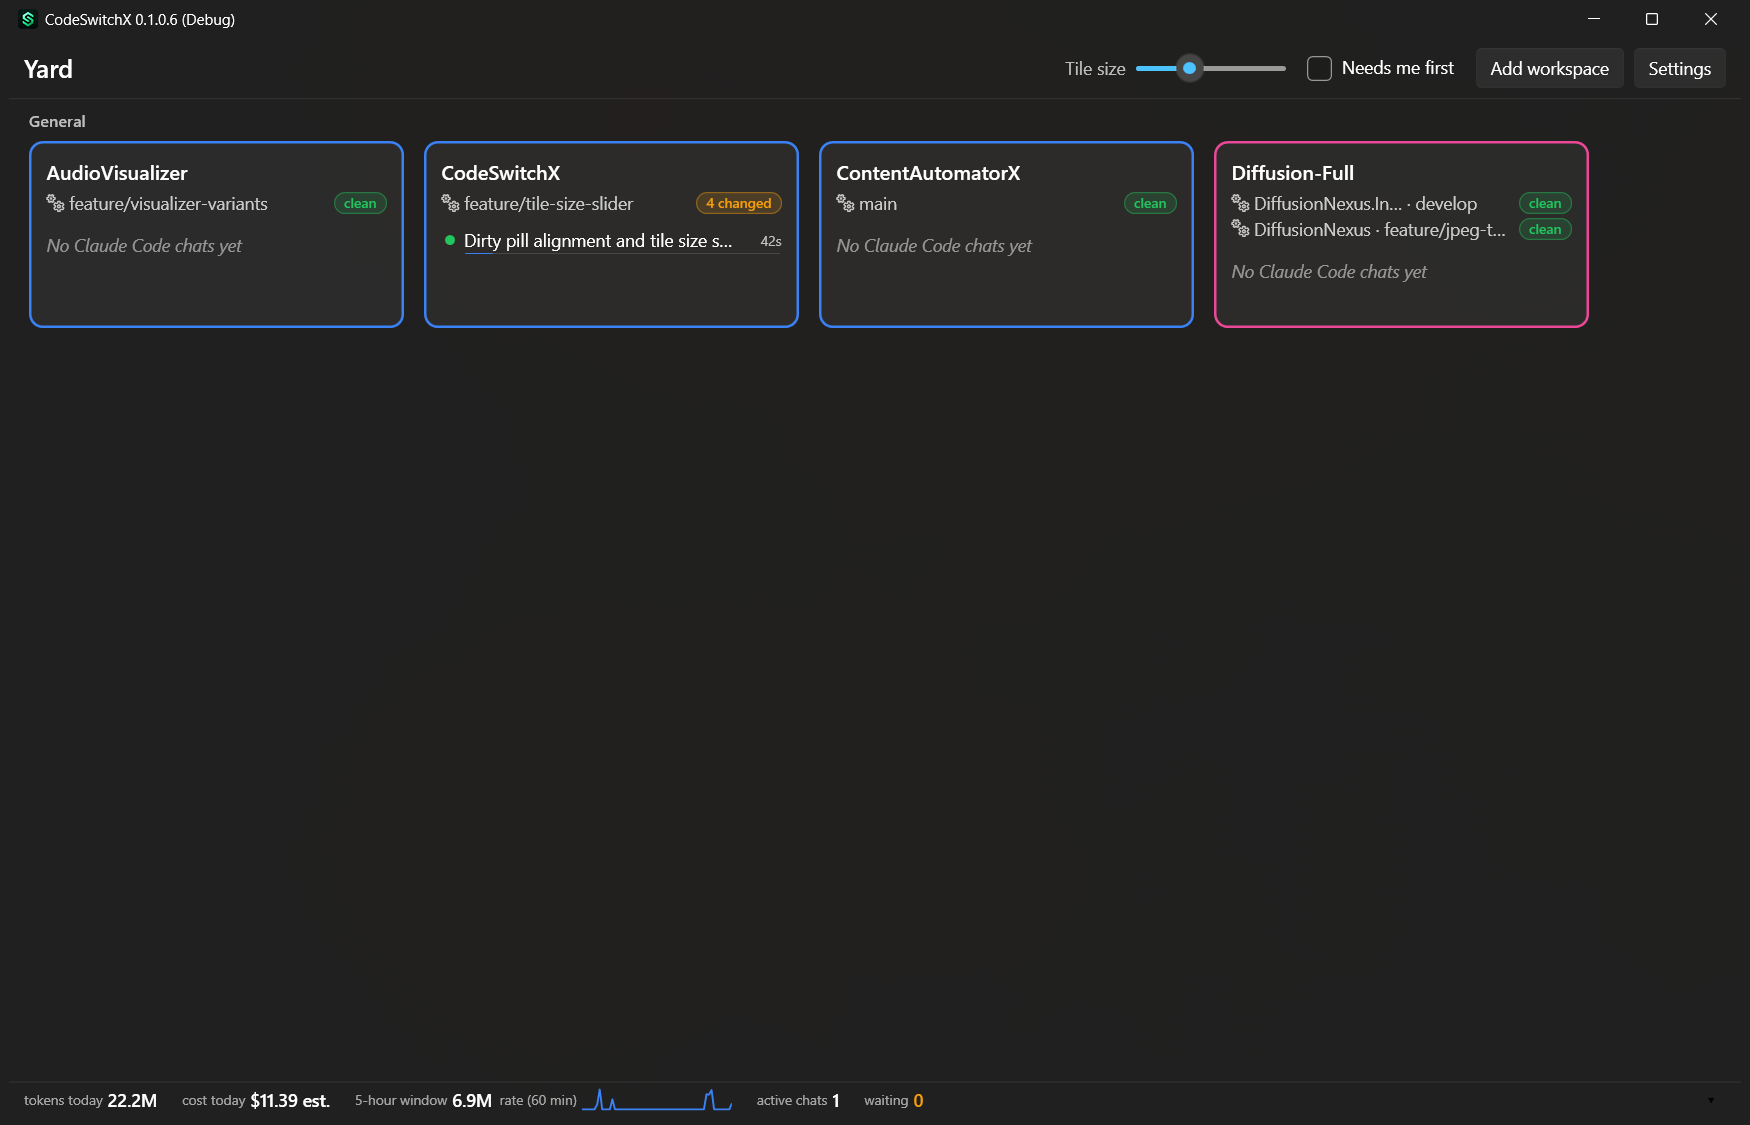
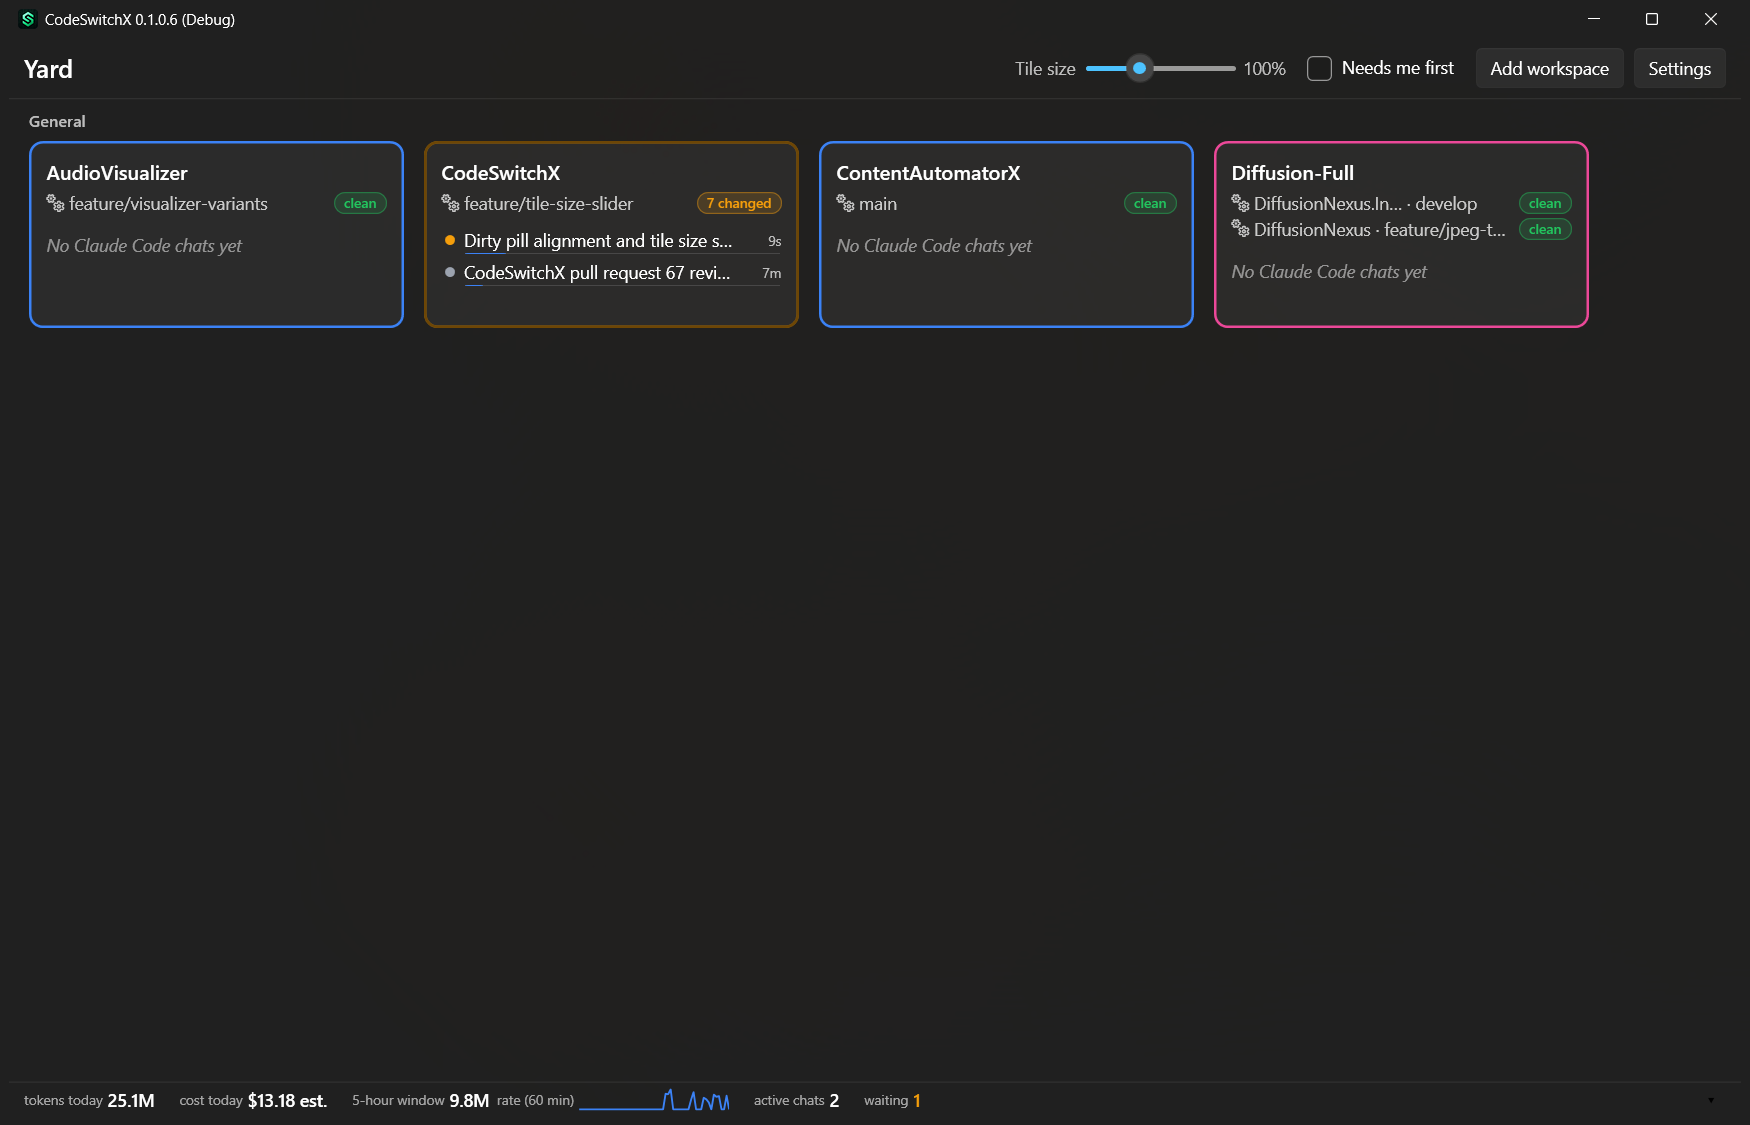
fix: address the review of the tile size slider (#65)
- The Yard owns its tile size (YardViewModel.TileScale); the settings only
  store it and the shell passes it between them, so the view binds to its
  own view model instead of reaching through the window.
- One layout transform per track instead of one per tile.
- The size is kept in the slider's range and to two decimals, so snapping
  noise (0.9000000000000001) is not stored.
- Arrow keys step 5% and a page / track click 25%; the slider has an
  automation name and a percentage readout.
- The stored size loads in a try of its own: a value that is not a number
  falls back to 100% without a message, and a failure reading the other
  settings keeps it.

diff --git a/src/CodeSwitchX.UI/Yard/YardView.xaml b/src/CodeSwitchX.UI/Yard/YardView.xaml
@@ -2,7 +2,6 @@
              xmlns="http://schemas.microsoft.com/winfx/2006/xaml/presentation"
              xmlns:x="http://schemas.microsoft.com/winfx/2006/xaml"
              xmlns:yard="clr-namespace:CodeSwitchX.UI.Yard"
-             xmlns:settings="clr-namespace:CodeSwitchX.UI.Settings"
              AllowDrop="True" Background="Transparent" DragEnter="OnDragOver" DragOver="OnDragOver" DragLeave="OnDragLeave" Drop="OnDrop">
   <UserControl.Resources>
     <DataTemplate x:Key="ChatRowTemplate" DataType="{x:Type yard:ChatRowViewModel}">
@@ -88,11 +87,6 @@
     <DataTemplate x:Key="TileTemplate" DataType="{x:Type yard:WorkspaceTileViewModel}">
       <Border x:Name="TileBorder" Width="300" MinHeight="150" Margin="8" Padding="12" CornerRadius="10" BorderThickness="2"
               Background="{DynamicResource CardBackgroundFillColorDefaultBrush}" Cursor="Hand">
-        <!-- the Tile size slider zooms the whole tile, text and all; a layout transform, so the wrap panel makes room -->
-        <Border.LayoutTransform>
-          <ScaleTransform ScaleX="{Binding DataContext.Settings.TileScale, RelativeSource={RelativeSource AncestorType=Window}}"
-                          ScaleY="{Binding DataContext.Settings.TileScale, RelativeSource={RelativeSource AncestorType=Window}}" />
-        </Border.LayoutTransform>
         <Border.InputBindings>
           <MouseBinding MouseAction="LeftClick" Command="{Binding OpenCommand}" />
         </Border.InputBindings>
@@ -174,9 +168,12 @@
       <DockPanel>
         <StackPanel DockPanel.Dock="Right" Orientation="Horizontal">
           <TextBlock Text="Tile size" VerticalAlignment="Center" Opacity="0.7" Margin="0,0,8,0" />
-          <Slider Width="120" VerticalAlignment="Center" Margin="0,0,16,0" Minimum="{x:Static settings:SettingsViewModel.MinTileScale}"
-                  Maximum="{x:Static settings:SettingsViewModel.MaxTileScale}" TickFrequency="0.05" IsSnapToTickEnabled="True"
-                  Value="{Binding DataContext.Settings.TileScale, RelativeSource={RelativeSource AncestorType=Window}}" />
+          <!-- 5% a tick, an arrow key or a snap; a quarter a page or a click on the track -->
+          <Slider Width="120" VerticalAlignment="Center" Minimum="{x:Static yard:YardViewModel.MinTileScale}" Maximum="{x:Static yard:YardViewModel.MaxTileScale}"
+                  TickFrequency="0.05" SmallChange="0.05" LargeChange="0.25" IsSnapToTickEnabled="True" AutomationProperties.Name="Tile size"
+                  Value="{Binding TileScale}" />
+          <TextBlock Text="{Binding TileScale, StringFormat={}{0:P0}}" VerticalAlignment="Center" MinWidth="40" TextAlignment="Right" Opacity="0.7"
+                     Margin="0,0,16,0" />
           <CheckBox Content="Needs me first" IsChecked="{Binding NeedsMeFirst}" VerticalAlignment="Center" Margin="0,0,16,0" />
           <Button Content="Add workspace" Command="{Binding AddWorkspaceCommand}" Margin="0,0,8,0" />
           <Button Content="Settings" Command="{Binding DataContext.OpenSettingsCommand, RelativeSource={RelativeSource AncestorType=Window}}" />
@@ -193,6 +190,11 @@
             <StackPanel Margin="0,0,0,16">
               <TextBlock Text="{Binding Name}" FontSize="13" FontWeight="SemiBold" Opacity="0.7" Margin="8,0,0,0" />
               <ItemsControl ItemsSource="{Binding Tiles}" ItemTemplate="{StaticResource TileTemplate}">
+                <!-- the Tile size slider zooms the tiles, text and all; a layout transform, so the wrap panel makes room -->
+                <ItemsControl.LayoutTransform>
+                  <ScaleTransform ScaleX="{Binding DataContext.TileScale, RelativeSource={RelativeSource AncestorType=yard:YardView}}"
+                                  ScaleY="{Binding DataContext.TileScale, RelativeSource={RelativeSource AncestorType=yard:YardView}}" />
+                </ItemsControl.LayoutTransform>
                 <ItemsControl.ItemsPanel>
                   <ItemsPanelTemplate>
                     <WrapPanel />

diff --git a/src/CodeSwitchX.UI/Settings/SettingsViewModel.cs b/src/CodeSwitchX.UI/Settings/SettingsViewModel.cs
@@ -30,7 +30,7 @@ public sealed partial class SettingsViewModel : ObservableObject
     [ObservableProperty] private bool _storePayloads;
     [ObservableProperty] private long? _fiveHourBudgetTokens;
 
-    /// <summary>How big the Yard draws its tiles: 1 is their normal size. The slider in the Yard's header sets it.</summary>
+    /// <summary>The Yard's tile size as stored; the Yard owns it (see <see cref="Yard.YardViewModel.TileScale"/>).</summary>
     [ObservableProperty] private double _tileScale = 1;
 
     public SettingsViewModel(ClaudeHookInstaller installer, ISettingsStore settings, PersistenceWriterOptions writerOptions, AppPaths paths, ClaudeCodePaths claude,
@@ -61,10 +61,10 @@ public sealed partial class SettingsViewModel : ObservableObject
         {
             // The startup coordinator read the stored choice into the writer before the first hook event; the view shows
             // the writer's flag rather than reading the row again, which could disagree with what the writer does.
+            TileScale = await LoadTileScaleAsync(ct);
             StorePayloads = _writerOptions.StorePayloads;
             FiveHourBudgetTokens = await _settings.GetAsync<long?>(SettingKeys.FiveHourBudgetTokens, ct);
             RelayExecutable = await _settings.GetAsync<string>(SettingKeys.RelayExecutable, ct) ?? DefaultRelayExecutable;
-            TileScale = ClampTileScale(await _settings.GetAsync<double?>(SettingKeys.TileScale, ct));
         }
         catch (Exception ex)
         {
@@ -150,11 +150,22 @@ public sealed partial class SettingsViewModel : ObservableObject
         BudgetChanged?.Invoke(value);
     }
 
-    public const double MinTileScale = 0.75;
-    public const double MaxTileScale = 1.5;
-
-    /// <summary>A stored value outside the slider's range (edited by hand, or from a build with another range) is pulled into it.</summary>
-    public static double ClampTileScale(double? value) => value is { } v && double.IsFinite(v) ? Math.Clamp(v, MinTileScale, MaxTileScale) : 1;
+    /// <summary>
+    /// In a try of its own: a stored value that is not a number (edited by hand) leaves the tiles at their normal size
+    /// without a message in the Settings view, and a failure reading the other settings does not lose the size.
+    /// </summary>
+    private async Task<double> LoadTileScaleAsync(CancellationToken ct)
+    {
+        try
+        {
+            return await _settings.GetAsync<double?>(SettingKeys.TileScale, ct) ?? 1;
+        }
+        catch (Exception ex) when (ex is not OperationCanceledException)
+        {
+            _logger.LogWarning(ex, "Reading the tile size failed; the tiles keep their normal size");
+            return 1;
+        }
+    }
 
     /// <summary>A drag of the slider changes the value many times; the save queue keeps only the latest.</summary>
     partial void OnTileScaleChanged(double value) => Persist(SettingKeys.TileScale, value);

diff --git a/tests/CodeSwitchX.UI.Tests/Settings/SettingsViewModelTests.cs b/tests/CodeSwitchX.UI.Tests/Settings/SettingsViewModelTests.cs
@@ -95,18 +95,27 @@ public class SettingsViewModelTests : IDisposable
         await _store.DidNotReceive().SetAsync(SettingKeys.TileScale, 1.25, Arg.Any<CancellationToken>());
     }
 
-    [Theory]
-    [InlineData(null, 1)]
-    [InlineData(0.1, SettingsViewModel.MinTileScale)]
-    [InlineData(9.0, SettingsViewModel.MaxTileScale)]
-    [InlineData(double.NaN, 1)]
-    public async Task A_missing_or_out_of_range_tile_size_loads_as_one_the_slider_can_show(double? stored, double shown)
+    [Fact]
+    public async Task A_stored_tile_size_that_is_not_a_number_loads_as_normal_size_without_a_message_or_losing_the_other_settings()
     {
-        _store.GetAsync<double?>(SettingKeys.TileScale, Arg.Any<CancellationToken>()).Returns(Task.FromResult(stored));
+        _store.GetAsync<double?>(SettingKeys.TileScale, Arg.Any<CancellationToken>()).Returns(Task.FromException<double?>(new System.Text.Json.JsonException("not a number")));
 
         await _vm.LoadAsync(CancellationToken.None);
 
-        _vm.TileScale.ShouldBe(shown);
+        _vm.TileScale.ShouldBe(1);
+        _vm.LastMessage.ShouldBeNull();
+        _vm.FiveHourBudgetTokens.ShouldBe(5_000_000);
+    }
+
+    [Fact]
+    public async Task A_failure_reading_the_other_settings_keeps_the_stored_tile_size()
+    {
+        _store.GetAsync<double?>(SettingKeys.TileScale, Arg.Any<CancellationToken>()).Returns(Task.FromResult<double?>(1.25));
+        _store.GetAsync<long?>(SettingKeys.FiveHourBudgetTokens, Arg.Any<CancellationToken>()).Returns(Task.FromException<long?>(new InvalidOperationException("locked")));
+
+        await _vm.LoadAsync(CancellationToken.None);
+
+        _vm.TileScale.ShouldBe(1.25);
     }
 
     /// <summary>Bounded: a queued save that never finishes must fail this test, not hang the run.</summary>

diff --git a/tests/CodeSwitchX.UI.Tests/Shell/ShellViewModelTests.cs b/tests/CodeSwitchX.UI.Tests/Shell/ShellViewModelTests.cs
@@ -5,6 +5,7 @@ using CodeSwitchX.Hosting;
 using CodeSwitchX.Hosting.VsCode;
 using CodeSwitchX.Hosting.Win32;
 using CodeSwitchX.Ingest.Hooks;
+using CodeSwitchX.UI.Settings;
 using CodeSwitchX.UI.Shell;
 using NSubstitute;
 
@@ -23,6 +24,24 @@ public class ShellViewModelTests
         _h.Windows.TopLevelWindows().Returns([new WindowInfo(ShopHwnd, 31, "Chrome_WidgetWin_1", "Program.cs - Shop - Visual Studio Code")]);
         _h.Launcher.Launch(Arg.Any<Workspace>()).Returns(new LaunchResult(true, 1, null));
         return shop;
+    }
+
+    [Fact]
+    public async Task The_yard_starts_at_the_stored_tile_size_and_a_change_is_stored_without_one_at_startup()
+    {
+        _h.Settings.GetAsync<double?>(SettingKeys.TileScale, Arg.Any<CancellationToken>()).Returns(Task.FromResult<double?>(1.25));
+
+        await _h.Shell.InitializeAsync(CancellationToken.None);
+
+        _h.Shell.Yard.TileScale.ShouldBe(1.25);
+        await _h.Shell.Settings.FlushSavesAsync(CancellationToken.None);
+        await _h.Settings.DidNotReceive().SetAsync(SettingKeys.TileScale, Arg.Any<double>(), Arg.Any<CancellationToken>());
+
+        _h.Shell.Yard.TileScale = 0.9000000000000001;
+        using var timeout = new CancellationTokenSource(TimeSpan.FromSeconds(5));
+        await _h.Shell.Settings.FlushSavesAsync(timeout.Token);
+
+        await _h.Settings.Received(1).SetAsync(SettingKeys.TileScale, 0.9, Arg.Any<CancellationToken>());
     }
 
     [Fact]

diff --git a/src/CodeSwitchX.UI/Yard/YardViewModel.cs b/src/CodeSwitchX.UI/Yard/YardViewModel.cs
@@ -52,6 +52,22 @@ public sealed partial class YardViewModel : ObservableObject, IDisposable
     /// </summary>
     public bool HooksInstalled { get; set; }
 
+    public const double MinTileScale = 0.75;
+    public const double MaxTileScale = 1.5;
+    private double _tileScale = 1;
+
+    /// <summary>
+    /// How big the tiles are drawn: 1 is their normal size. The slider in the header sets it; the shell hands it the
+    /// stored value at startup and stores every change. A value outside the slider's range (a stored one edited by hand,
+    /// or from a build with another range) is pulled into it, and it is kept to two decimals: the slider's snapping adds
+    /// float noise (0.9000000000000001) that would otherwise be stored.
+    /// </summary>
+    public double TileScale
+    {
+        get => _tileScale;
+        set => SetProperty(ref _tileScale, double.IsFinite(value) ? Math.Round(Math.Clamp(value, MinTileScale, MaxTileScale), 2) : 1);
+    }
+
     public YardViewModel(IWorkspaceStore store, WorkspaceRegistry registry, SessionEngine engine, IPricingProvider pricing, GitInspector git,
         IEventBus bus, IUiDispatcher ui, TimeProvider time, ILogger<YardViewModel> logger)
     {

diff --git a/tests/CodeSwitchX.UI.Tests/Yard/YardViewModelTests.cs b/tests/CodeSwitchX.UI.Tests/Yard/YardViewModelTests.cs
@@ -43,6 +43,19 @@ public class YardViewModelTests : IDisposable
         _yard = new YardViewModel(_store, _registry, _engine, pricing, git, _bus, new ImmediateDispatcher(), _time, NullLogger<YardViewModel>.Instance);
     }
 
+    [Theory]
+    [InlineData(1.25, 1.25)]
+    [InlineData(0.1, YardViewModel.MinTileScale)]
+    [InlineData(9.0, YardViewModel.MaxTileScale)]
+    [InlineData(double.NaN, 1)]
+    [InlineData(0.9000000000000001, 0.9)]
+    public void The_tile_size_stays_in_the_sliders_range_and_to_two_decimals(double set, double kept)
+    {
+        _yard.TileScale = set;
+
+        _yard.TileScale.ShouldBe(kept);
+    }
+
     public void Dispose()
     {
         if (Directory.Exists(_tempRoot))

diff --git a/src/CodeSwitchX.UI/Shell/ShellViewModel.cs b/src/CodeSwitchX.UI/Shell/ShellViewModel.cs
@@ -72,6 +72,16 @@ public sealed partial class ShellViewModel : ObservableObject
                 Yard.HooksInstalled = HooksReachUs(Settings.HookState);
             }
         };
+        // The Yard owns its tile size and the settings store it. The window shows only after this method, so the tiles
+        // are never drawn at the default size first.
+        Yard.TileScale = Settings.TileScale;
+        Yard.PropertyChanged += (_, e) =>
+        {
+            if (e.PropertyName == nameof(YardViewModel.TileScale))
+            {
+                Settings.TileScale = Yard.TileScale;
+            }
+        };
         _ = AutoStartAsync();
     }
 
